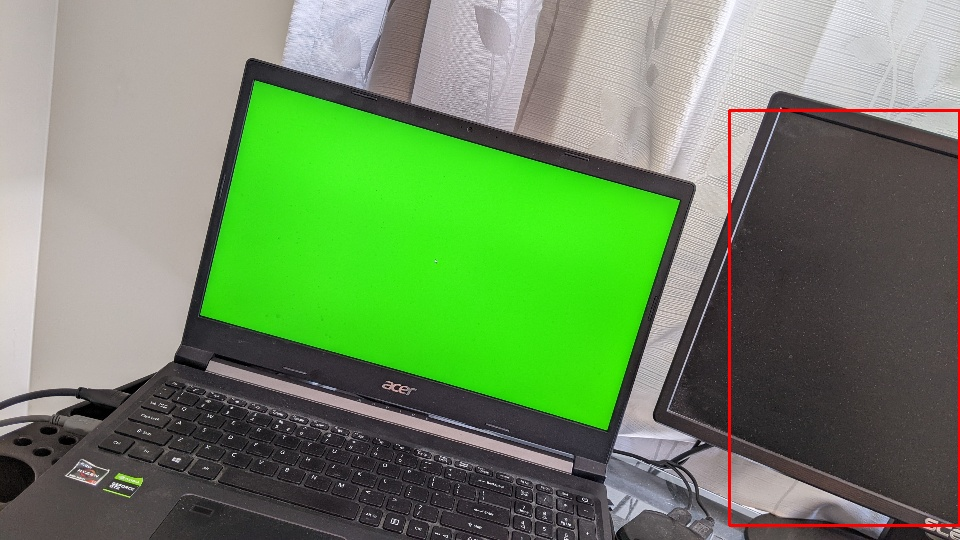
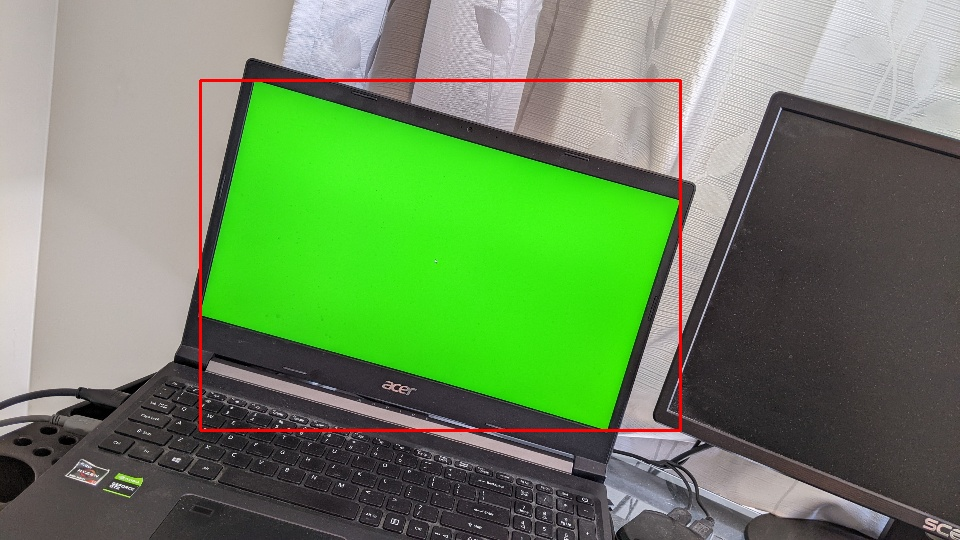
final result

Changed region(s): [[0.1875, 0.1185, 0.7188, 0.8], [0.75, 0.1778, 1.0, 0.9778]]

diff --git a/extractor.py b/extractor.py
@@ -2,7 +2,7 @@ import cv2
 import numpy as np
 
 #Reading, resizing and changing the image format to HSV
-img = cv2.imread('1.jpg')
+img = cv2.imread('input.jpg')
 img = cv2.resize(img, (960,540))
 hsv_image = cv2.cvtColor(img, cv2.COLOR_BGR2HSV)
 
@@ -39,11 +39,11 @@ for coords in largest_contour:
 b_box = img.copy()
 b_box = cv2.rectangle(b_box, (xmin, ymin), (xmax, ymax), (0,0,255), 2)
 
-#Drawing the outline of the laptop screen
-outline = cv2.drawContours(img, [largest_contour], 0, (0,0,255), 2)
-
 #Extracting the green screen portion using the new mask
 result = cv2.bitwise_and(img, img, mask=largest_contour_mask)
+
+#Drawing the outline of the laptop screen
+outline = cv2.drawContours(img, [largest_contour], 0, (0,0,255), 2)
 
 #Displaying the results
 cv2.imshow('bbox', b_box)
